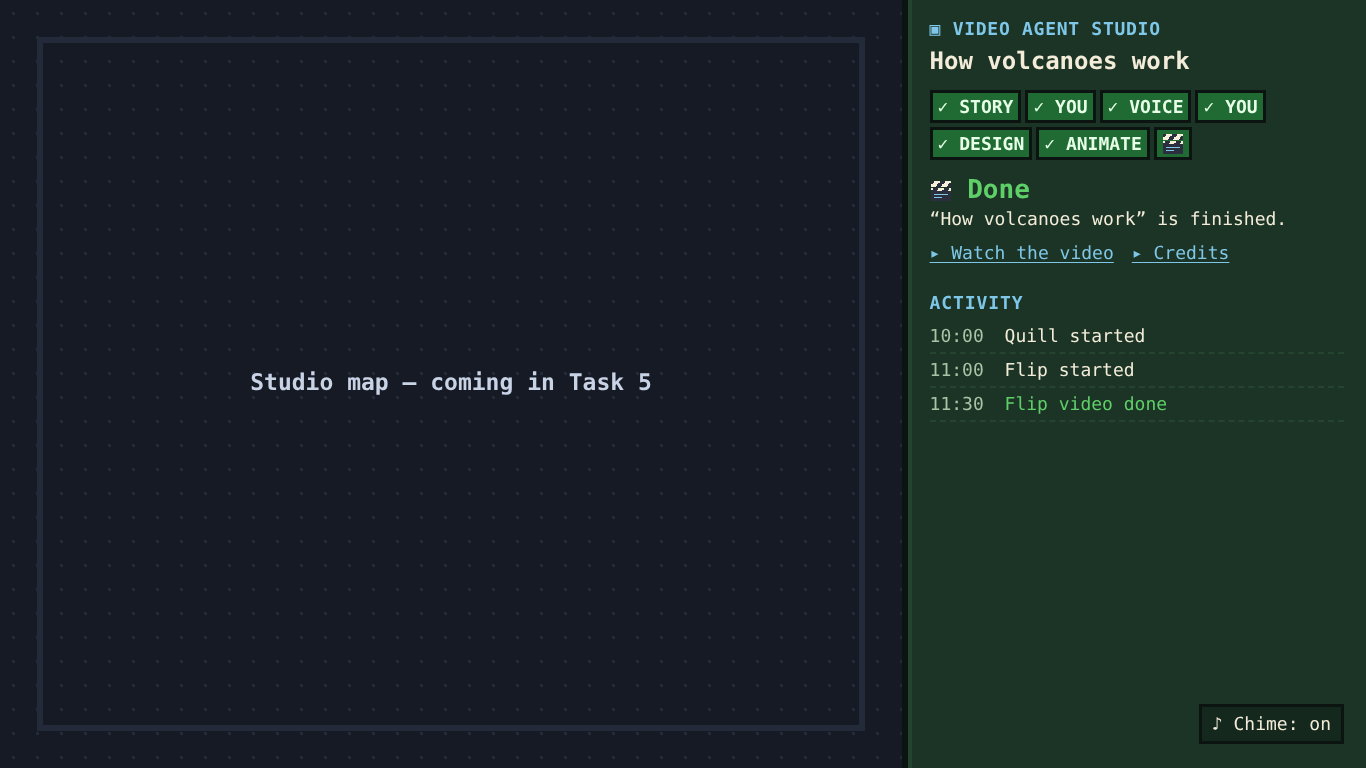
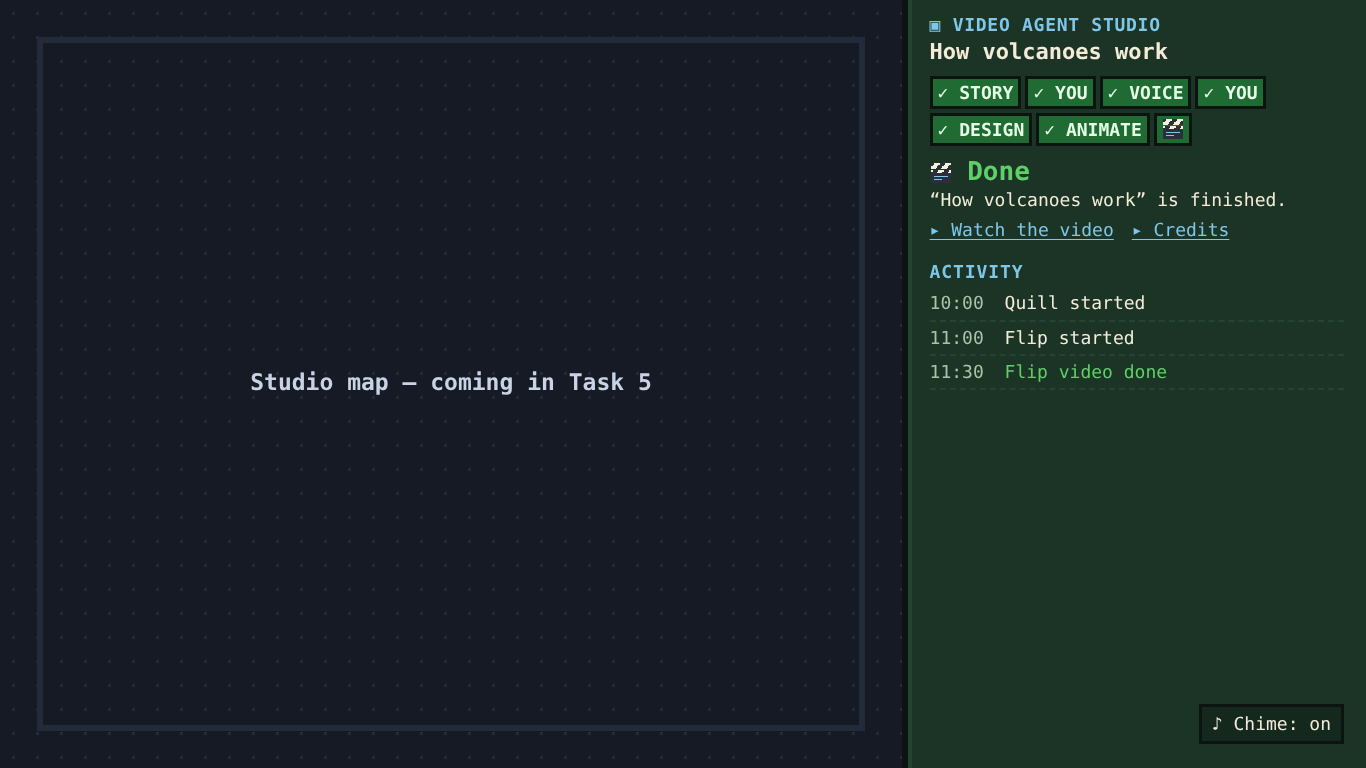
fix: board key persistence, friendlier wording, tighter layout, fetch timeout
Claude-Session: https://claude.ai/code/session_01Tz5zWaGgMzak1Zwa8mwzTk

Changed region(s): [[0.6764, 0.0, 0.9531, 0.5312]]

diff --git a/tools/dashboard/static/board.js b/tools/dashboard/static/board.js
@@ -13,16 +13,14 @@ const NEEDS_TEXT = {
   directions: "Type your directions first, then press Give directions.",
   answer: "Type your answer first, then press Send answer.",
 };
-const BOX_LABEL = {
-  changes: "Your changes (needed for Request changes)",
-  directions: "Your directions (needed for Give directions)",
-  answer: "Your answer",
-};
+const BOX_LABEL = { changes: "Your changes:", directions: "Your directions:", answer: "Your answer:" };
 const KEY_MSG = "Studio key missing — reopen the link printed by <code>python -m tools.dashboard</code>";
 const TRACK = { story: "STORY", owner: "YOU", voice: "VOICE", design: "DESIGN", animator: "ANIMATE" };
 const THING = { story: "script", voice: "voice-over", design: "storyboard", animator: "video" };
 const STUCK_ROLE = { 1: "story", 2: "voice", 3: "design", 4: "animator" };
 const CHIME_KEY = "studio.chime";
+const KEY_STORE = "studio.key"; // sessionStorage: survives a reload in this tab only
+const FETCH_TIMEOUT_MS = 10000;
 
 // 16x16 pixel clapperboard drawn from rects (no emoji font needed).
 const CLAPPER = (() => {
@@ -202,7 +200,7 @@ function stuckExtras(st, req) {
   const path = `review/gate-${n}-round-${str(st.round, MAX_ROUNDS)}.md`;
   const md = runText(st.run, path, req.id);
   const reviewer = nameOf(st, "reviewer");
-  let h = `<p class="body">${esc(reviewer)} still finds problems after ${esc(st.round)} rounds.</p><div class="label">OPEN MUST-FIX ITEMS</div><div class="box">`;
+  let h = `<p class="body">${esc(reviewer)}: still <span class="fix">FIX</span> after ${esc(st.round)} rounds.</p><div class="label">OPEN MUST-FIX ITEMS</div><div class="box">`;
   if (md === undefined) h += `<p>Loading ${esc(reviewer)}'s review…</p>`;
   else if (md === null) h += `<p>${esc(reviewer)}'s review file was not found.</p>`;
   else {
@@ -304,7 +302,8 @@ function renderControls(st) {
     `<button class="btn decision ${o}${S.armed === o ? " armed" : ""}" data-act="decide" data-decision="${o}"${S.sending ? " disabled" : ""}><span aria-hidden="true">${ICONS[o]}</span>${LABELS[o]}</button>`
   ).join(""));
   const need = opts.find((o) => BOX_LABEL[o]);
-  P.label.textContent = need ? BOX_LABEL[need] : "Note (optional)";
+  P.label.textContent = need ? BOX_LABEL[need] : "Note (optional):";
+  P.reply.placeholder = need ? `Needed for ${LABELS[need]} — e.g. “make scene 3 simpler for kids”` : "Optional note";
   P.reply.disabled = S.sending;
   setHTML(P.msg, S.msg ? `<span class="${S.msg.err ? "err" : ""}">${S.msg.html}</span>` : "");
   P.msg.className = "msg" + (S.msg && S.msg.err ? " err" : "");
@@ -356,7 +355,7 @@ async function decide(decision) {
   setMsg(null);
   let msg = null;
   try {
-    const r = await fetch("/api/answer", {
+    const r = await fetchT("/api/answer", {
       method: "POST",
       headers: { "Content-Type": "application/json", "X-Studio-Key": S.key },
       body: JSON.stringify({ run: str(st.run), id: str(req.id), decision, text }),
@@ -439,6 +438,19 @@ function toggleChime() {
 }
 
 // ---------- polling ----------
+// fetch that gives up after FETCH_TIMEOUT_MS so a hung server can't stall polling
+async function fetchT(url, opts = {}) {
+  const ctl = new AbortController();
+  const t = setTimeout(() => ctl.abort(), FETCH_TIMEOUT_MS);
+  try {
+    const r = await fetch(url, { ...opts, signal: ctl.signal });
+    const body = await r.text(); // read inside the timeout too
+    return { ok: r.ok, status: r.status, json: async () => JSON.parse(body) };
+  } finally {
+    clearTimeout(t);
+  }
+}
+
 function pickRun(runs) {
   const waiting = (r) => r.state === "waiting_owner" || r.state === "failed";
   const cur = runs.find((r) => r.run === S.run);
@@ -452,14 +464,14 @@ async function tick() {
   if (document.hidden || S.busy) return;
   S.busy = true;
   try {
-    const rr = await fetch("/api/runs");
+    const rr = await fetchT("/api/runs");
     const data = rr.ok ? await rr.json() : [];
     S.runs = (Array.isArray(data) ? data : []).filter((r) => r && r.run !== null && r.run !== undefined)
       .map((r) => ({ run: str(r.run), topic: str(r.topic), step: str(r.step), state: str(r.state) }));
     pickRun(S.runs);
     let st = null;
     if (S.run) {
-      const r = await fetch("/api/state?run=" + encodeURIComponent(S.run));
+      const r = await fetchT("/api/state?run=" + encodeURIComponent(S.run));
       st = r.ok ? await r.json() : null;
       if (st && typeof st !== "object") st = null;
     }
@@ -482,6 +494,10 @@ export function startBoard(el) {
   S.el = el;
   const url = new URL(location.href);
   S.key = url.searchParams.get("key") || "";
+  try {
+    if (S.key) sessionStorage.setItem(KEY_STORE, S.key);
+    else S.key = sessionStorage.getItem(KEY_STORE) || "";
+  } catch { /* storage blocked: memory only */ }
   if (url.searchParams.has("key")) {
     url.searchParams.delete("key");
     history.replaceState(null, "", url.pathname + url.search + url.hash);

diff --git a/tools/dashboard/static/index.html b/tools/dashboard/static/index.html
@@ -114,6 +114,23 @@
   .footer { display: flex; justify-content: flex-end; margin-top: auto; }
   .idle { font-size: 22px; line-height: 1.5; }
   .idle code { color: var(--c-waiting); }
+  .box { max-height: 34vh; overflow-y: auto; }
+  /* short screens (1366x768 laptops): keep buttons + text box above the fold; text stays 18px */
+  @media (max-height: 860px) {
+    #board { gap: 10px; padding-top: 12px; }
+    section[data-part="controls"] { gap: 10px; }
+    .topic { font-size: 22px; margin-top: 0; }
+    h2.waiting { font-size: 26px; }
+    .req-title { font-size: 20px; margin-top: 2px; }
+    .label { margin: 6px 0 2px; }
+    .links { margin-top: 4px; }
+    .box { max-height: 26vh; padding: 6px 10px; }
+    .btn { min-height: 52px; padding: 8px 12px; }
+    .btn.play { min-height: 46px; }
+    .decisions { gap: 12px 14px; }
+    #reply { height: 78px; min-height: 78px; }
+    #reply-wrap label { margin-bottom: 2px; }
+  }
   @media (max-width: 900px) {
     body { grid-template-columns: 1fr; overflow: auto; }
     #studio { height: 40vh; } #board { height: auto; border-left: 0; border-top: 6px solid var(--c-ink); }

diff --git a/tests/dashboard/test_browser.py b/tests/dashboard/test_browser.py
@@ -23,7 +23,7 @@ TOKEN = "browsertoken"
 
 
 @contextmanager
-def studio(tmp_path, runs=(), answers=None):
+def studio(tmp_path, runs=(), answers=None, mutate=None):
     """Serve a tmp project holding copies of the given fixture runs."""
     (tmp_path / "team.json").write_text((REPO / "team.json").read_text(encoding="utf-8"), encoding="utf-8")
     (tmp_path / "videos").mkdir(exist_ok=True)
@@ -33,6 +33,8 @@ def studio(tmp_path, runs=(), answers=None):
         board = tmp_path / "videos" / run / "board"
         board.mkdir(parents=True, exist_ok=True)
         (board / f"answer-{rid}.json").write_text(json.dumps(ans), encoding="utf-8")
+    if mutate:
+        mutate(tmp_path / "videos")
     server = make_server(tmp_path, port=0, token=TOKEN)
     t = threading.Thread(target=server.serve_forever, daemon=True)
     t.start()
@@ -243,7 +245,9 @@ LAYOUT_JS = """(() => {
   const small = [...b.querySelectorAll('*')].filter(e => e.childNodes.length && [...e.childNodes]
       .some(n => n.nodeType === 3 && n.textContent.trim()) && e.offsetParent !== null
       && parseFloat(getComputedStyle(e).fontSize) < 18).map(e => e.tagName + ':' + e.textContent.slice(0, 30));
-  return {overflowX: b.scrollWidth > b.clientWidth + 1,
+  const must = [...document.querySelectorAll('#board button.decision, #reply')].filter(e => e.offsetParent !== null);
+  return {overflowX: b.scrollWidth > b.clientWidth + 1, controls: must.length,
+          belowFold: must.filter(e => e.getBoundingClientRect().bottom > innerHeight).map(e => e.id || e.textContent),
           pageOverflowX: document.documentElement.scrollWidth > innerWidth + 1, small};
 })()"""
 
@@ -259,5 +263,62 @@ def test_board_layout_every_state(tmp_path, state):
             {"op": "eval", "js": LAYOUT_JS},
         ])
         big, small = out["results"][2], out["results"][4]
-        assert big == {"overflowX": False, "pageOverflowX": False, "small": []}
+        assert (big["overflowX"], big["pageOverflowX"], big["small"], big["belowFold"]) == (False, False, [], [])
         assert not small["overflowX"] and not small["pageOverflowX"]
+        if state in ("gate1-waiting", "gate2-waiting", "stuck-gate3"):
+            assert small["controls"] >= 3 and small["belowFold"] == [], small  # buttons + text box above the fold
+
+
+def test_board_key_survives_reload(tmp_path):
+    with studio(tmp_path, ["gate1-waiting"]) as s:
+        out = drive([
+            {"op": "goto", "url": s.url},
+            {"op": "wait_text", "text": "WAITING FOR YOU"},
+            {"op": "reload"},
+            {"op": "wait_text", "text": "WAITING FOR YOU"},
+            {"op": "eval", "js": "location.href"},
+            {"op": "click", "name": "Approve"},
+            {"op": "wait_text", "text": "Sent ✓ — Quill is on it"},
+        ])
+        assert "key=" not in out["results"][4]
+        assert answer_file(s, "gate1-waiting", "gate-1-1").exists()
+
+
+def test_board_recovers_from_hung_request(tmp_path):
+    with studio(tmp_path, ["gate1-waiting"]) as s:
+        drive([
+            {"op": "hang_once", "pattern": "**/api/state*"},
+            {"op": "goto", "url": s.url},
+            {"op": "wait_text", "text": "WAITING FOR YOU", "timeout": 20000},
+        ])
+
+
+XSS = '<img src=x onerror=alert(1)>'
+
+
+def _poison(videos):
+    run = videos / "stuck-gate3"
+    req = json.loads((run / "board" / "request.json").read_text(encoding="utf-8"))
+    req.update(title="T " + XSS, body="B " + XSS, links=[{"label": "L " + XSS, "path": "01-script/script.md"}])
+    (run / "board" / "request.json").write_text(json.dumps(req), encoding="utf-8")
+    review = run / "review" / "gate-3-round-3.md"
+    review.write_text(f"# Gate 3, round 3: FIX\n## Must-fix\n- R {XSS} `{XSS}`\n", encoding="utf-8")
+    status = json.loads((run / "status.json").read_text(encoding="utf-8"))
+    status["topic"] = "Topic " + XSS
+    (run / "status.json").write_text(json.dumps(status), encoding="utf-8")
+
+
+def test_board_escapes_html(tmp_path):
+    with studio(tmp_path, ["stuck-gate3"], mutate=_poison) as s:
+        out = drive([
+            {"op": "goto", "url": s.url},
+            {"op": "wait_text", "text": "T " + XSS},
+            {"op": "wait_text", "text": "R " + XSS},
+            {"op": "sleep", "ms": 500},
+            {"op": "count", "selector": "img"},
+            {"op": "text", "selector": "#board"},
+        ])
+        assert out["results"][4] == 0
+        text = out["results"][5]
+        for want in ("Topic " + XSS, "B " + XSS, "L " + XSS):
+            assert want in text

diff --git a/tests/dashboard/test_state.py b/tests/dashboard/test_state.py
@@ -197,3 +197,39 @@ def test_done_word_boundary_and_unreadable_status(tmp_path):
     (run / "status.json").mkdir()  # reading it raises an OSError, not a decode error
     assert run_state(run, load_team(Path(__file__).resolve().parents[2]))["state"] == "starting"
     assert list_runs(tmp_path) == []
+
+
+def test_waiting_events_read_as_waiting_for_you():
+    assert st("gate1-waiting")["events"][-1]["text"] == "Waiting for you: script approval"
+    assert st("gate2-waiting")["events"][-1]["text"] == "Waiting for you: voice approval"
+    stuck = st("stuck-gate3")["events"][-1]
+    assert stuck["text"] == "Waiting for you: stuck gate 3" and stuck["kind"] == "owner"
+
+
+@pytest.mark.parametrize("agent,detail,want", [
+    ("story", "gate 1: script", "script approval"),
+    ("voice", "gate 2: voice", "voice approval"),
+    ("story", "gate 1: changed lines for owner-gate-2-1", "changed lines approval"),
+    ("animator", "final video", "final video"),
+    ("orchestrator", "question", "a question"),
+    ("animator", "", "final video"),
+])
+def test_waiting_event_wording(tmp_path, agent, detail, want):
+    run = tmp_path / "r"
+    shutil.copytree(FIX / "gate1-waiting", run)
+    data = json.loads((run / "status.json").read_text(encoding="utf-8"))
+    data["history"].append({"time": "2026-11-20T10:30:00", "agent": agent,
+                            "event": "waiting for owner", "detail": detail})
+    (run / "status.json").write_text(json.dumps(data), encoding="utf-8")
+    ev = run_state(run, TEAM, now=NOW)["events"][-1]
+    assert ev == {"time": "10:30", "agent": agent, "text": f"Waiting for you: {want}", "kind": "owner"}
+
+
+def test_waiting_event_wording_from_progress_log(tmp_path):
+    run = tmp_path / "r"
+    shutil.copytree(FIX / "gate2-waiting", run)
+    data = json.loads((run / "status.json").read_text(encoding="utf-8"))
+    del data["history"]
+    (run / "status.json").write_text(json.dumps(data), encoding="utf-8")
+    ev = run_state(run, TEAM, now=NOW)["events"]
+    assert ev[-1]["text"] == "Waiting for you: voice approval" and ev[-1]["kind"] == "owner"

diff --git a/tools/dashboard/state.py b/tools/dashboard/state.py
@@ -31,6 +31,8 @@ CREDITS = "04-video/credits.md"
 _REVIEW_RE = re.compile(r"^gate-1-round-(\d+)\.md$")
 _REVIEW_HEAD_RE = re.compile(r"^#\s*Gate\s+1,\s*round\s+(\d+)\s*:\s*(PASS|FIX)\b", re.I)
 _GATE_EVENT_RE = re.compile(r"gate\s+(\d+)\s+(PASS|FIX)", re.I)
+_STUCK_RE = re.compile(r"\bgate\s+(\d+)\s+stuck\b", re.I)
+_OWNER_FALLBACK = {"story": "script approval", "voice": "voice approval", "animator": "final video"}
 _LOG_RE = re.compile(r"^(\d{4}-\d\d-\d\d)[ T](\d\d:\d\d(?::\d\d)?)\s*\|\s*\[\d/\d\]\s*(\w+)\s*\|\s*(.*)$")
 
 
@@ -95,8 +97,31 @@ def _name(team: dict, agent: str) -> str:
     return "The studio" if agent in ("orchestrator", "") else str(agent).capitalize()
 
 
+def _is_waiting(event: str) -> bool:
+    low = event.lower()
+    return "waiting for owner" in low or low.startswith("waiting_owner")
+
+
+def _owner_text(event: str, detail: str, agent: str) -> str | None:
+    """'Waiting for you: <what>' for owner checkpoints, else None."""
+    m = _STUCK_RE.search(event)
+    if m:
+        return f"Waiting for you: stuck gate {m.group(1)}"
+    if not _is_waiting(event):
+        return None
+    low = detail.lower()
+    for key, what in (("changed lines", "changed lines approval"), ("script", "script approval"),
+                      ("voice", "voice approval"), ("final", "final video"), ("video", "final video"),
+                      ("question", "a question")):
+        if key in low:
+            return f"Waiting for you: {what}"
+    return f"Waiting for you: {_OWNER_FALLBACK.get(agent, 'your answer')}"
+
+
 def _kind(event: str) -> str | None:
     low = event.lower()
+    if _STUCK_RE.search(event) or _is_waiting(event):
+        return "owner"
     if "started" in low:
         return "start"
     if "PASS" in event:
@@ -111,6 +136,9 @@ def _kind(event: str) -> str | None:
 
 
 def _event_text(team: dict, agent: str, event: str, detail: str) -> str:
+    owner = _owner_text(event, detail, agent)
+    if owner:
+        return owner
     name = _name(team, agent)
     m = _GATE_EVENT_RE.search(event)
     if m and agent == "reviewer":
